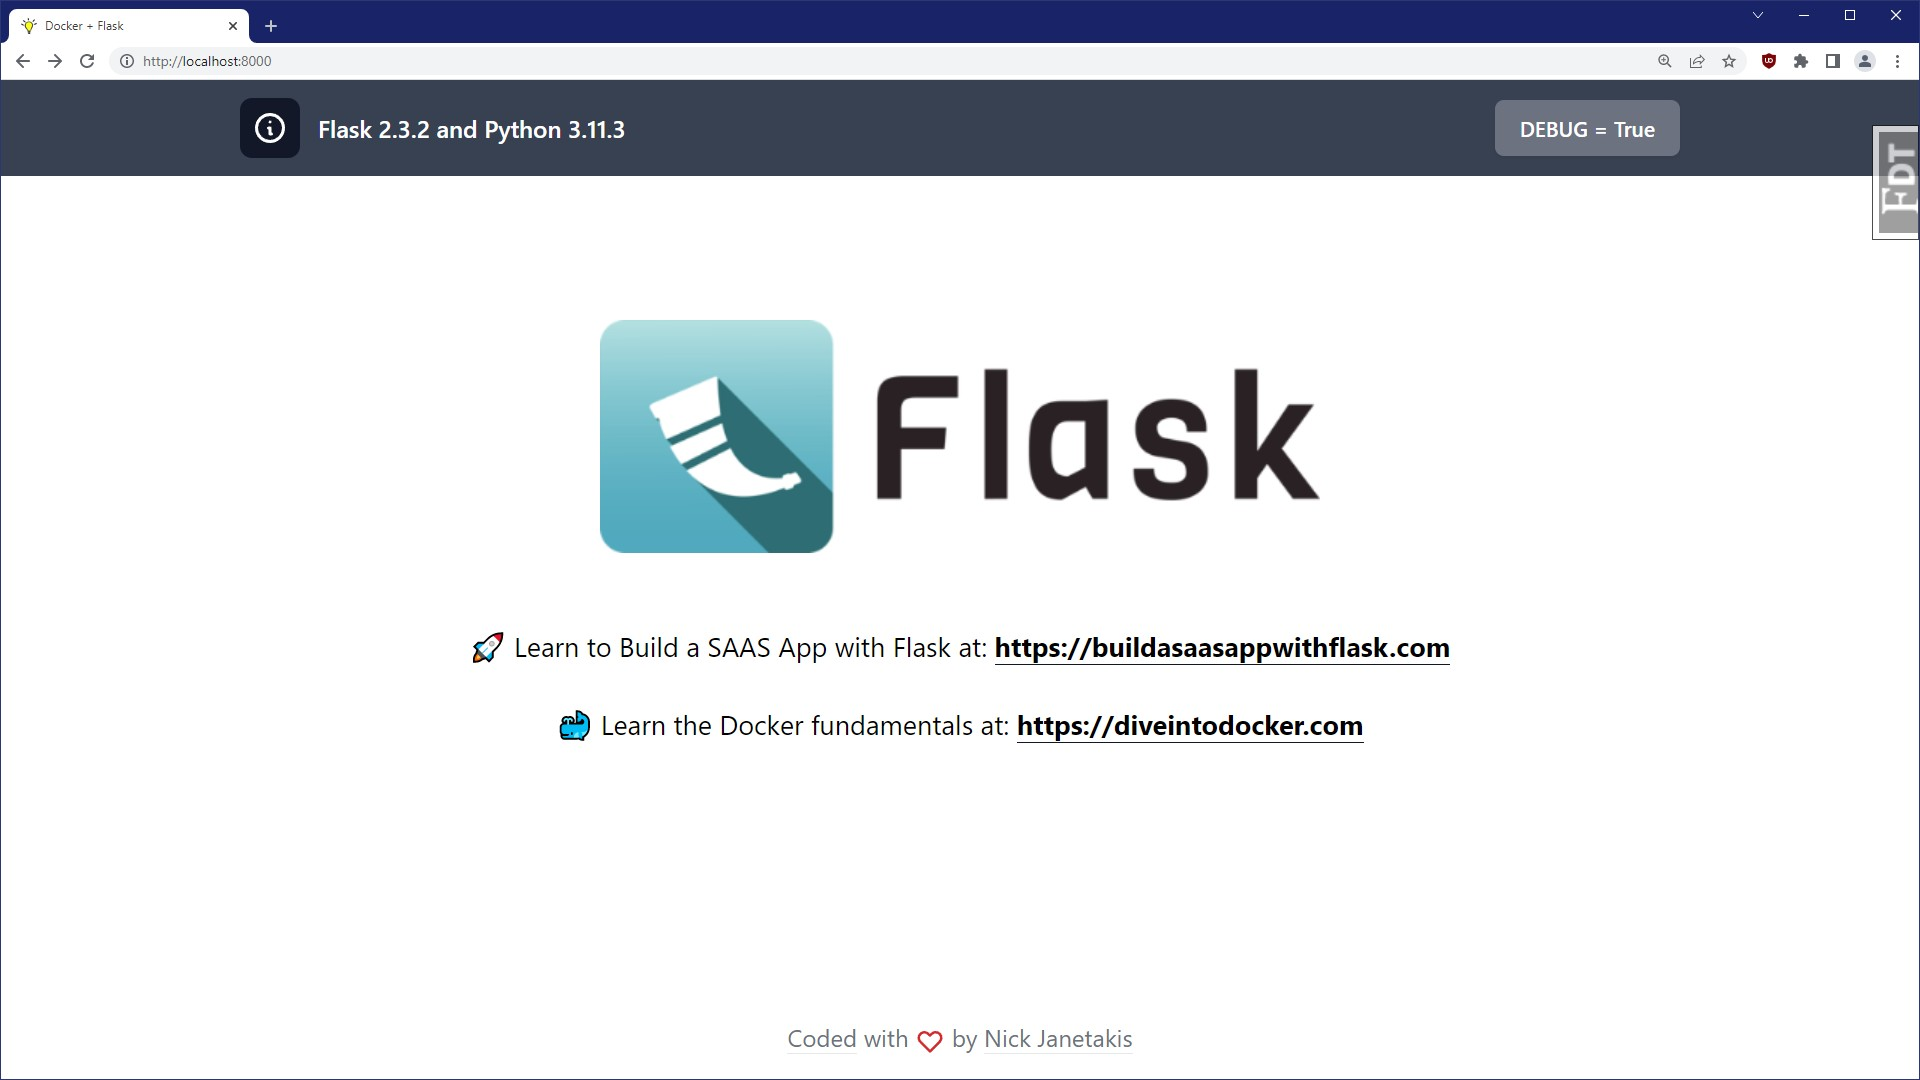
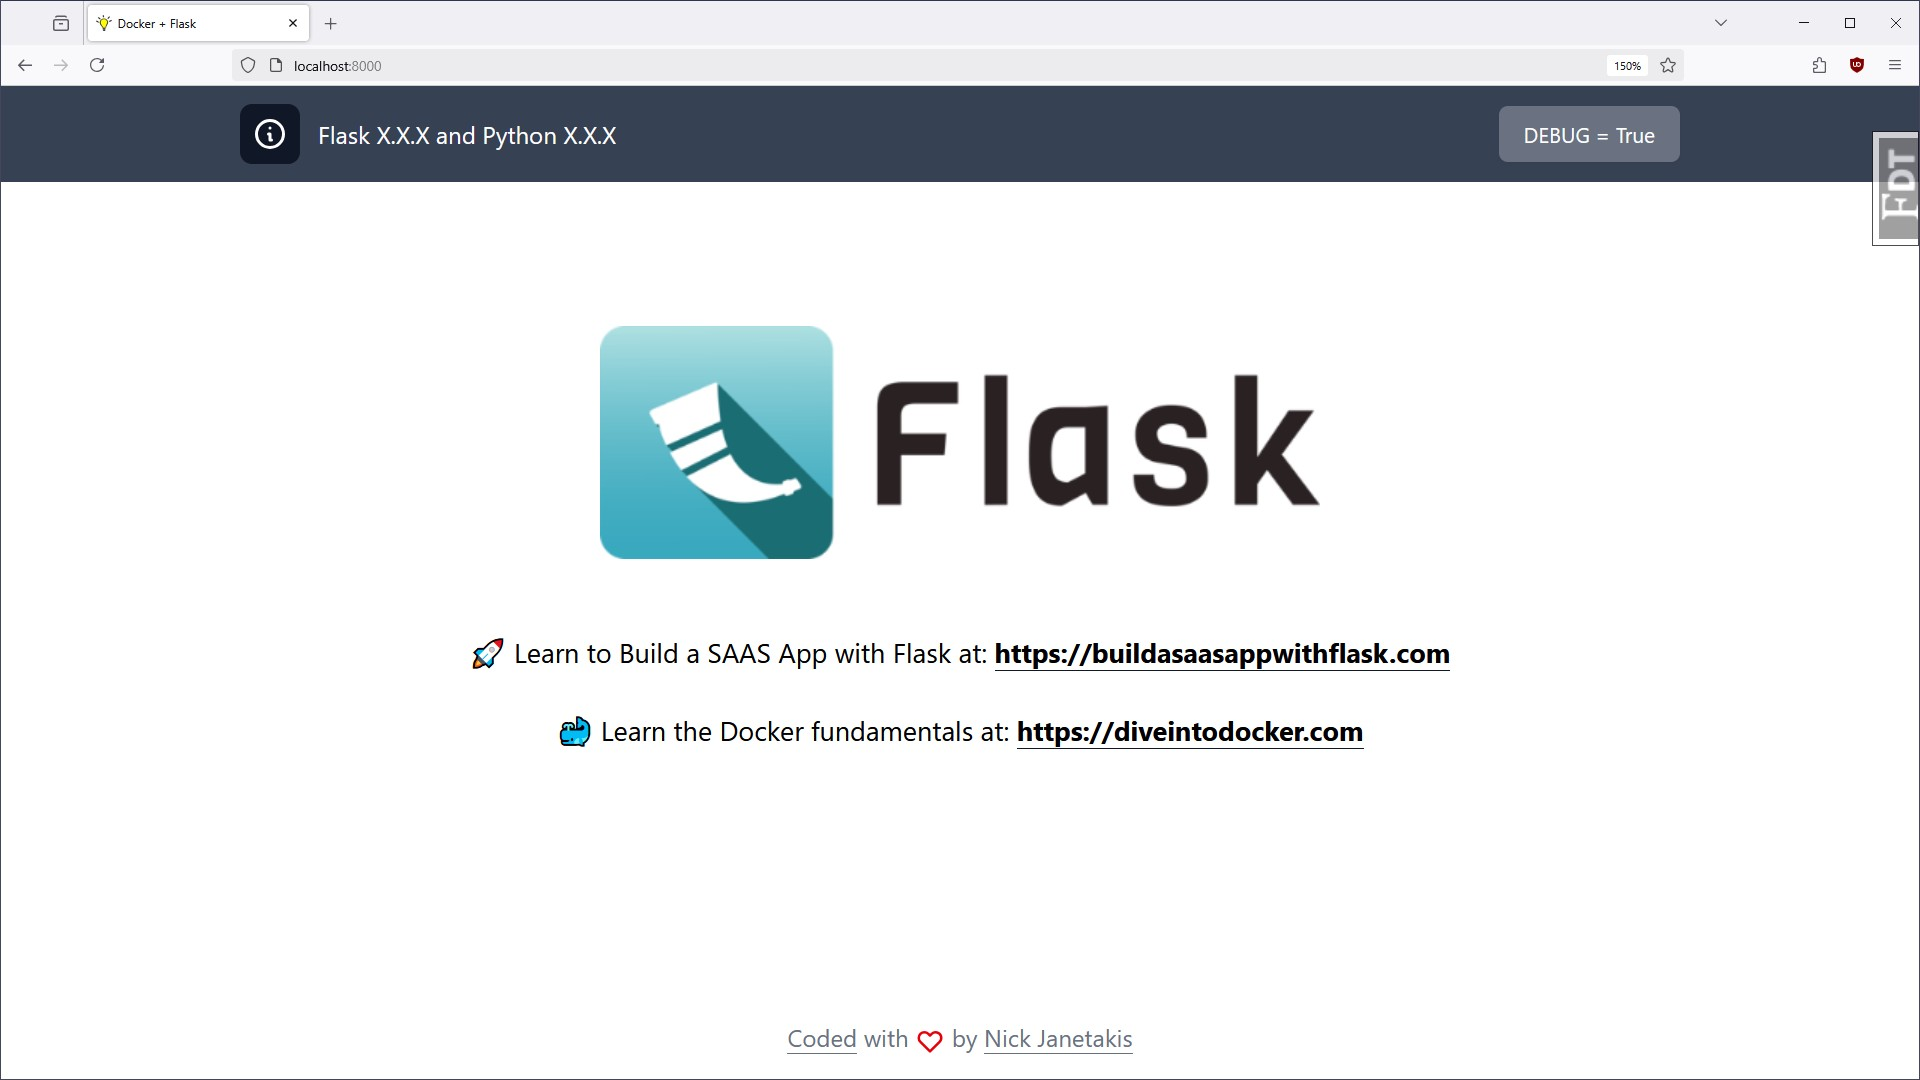
Update screenshot to use version placeholders

diff --git a/README.md b/README.md
@@ -14,8 +14,8 @@ practices](https://nickjanetakis.com/blog/best-practices-around-production-ready
 based on building and deploying dozens of assorted Dockerized web apps since
 late 2014.
 
-**This app is using Flask 3.1.0 and Python 3.13.2**. The screenshot doesn't get
-updated every time I bump the versions:
+**This app is using Flask 3.1.0 and Python 3.13.2**. The screenshot shows
+`X.X.X` since they get updated regularly:
 
 [![Screenshot](.github/docs/screenshot.jpg)](https://github.com/nickjj/docker-flask-example/blob/main/.github/docs/screenshot.jpg?raw=true)
 
